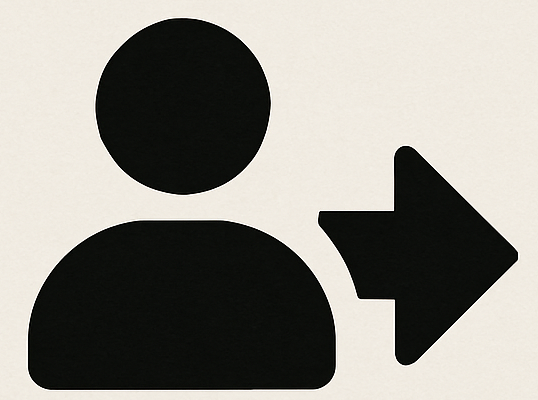
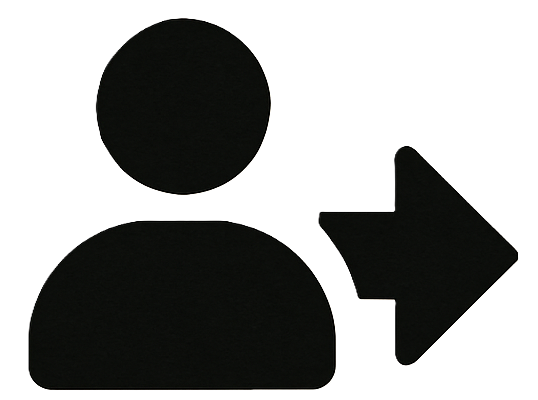
login page styling/fin??

diff --git a/retrOS/src/components/pim/login/login.css b/retrOS/src/components/pim/login/login.css
@@ -2,26 +2,25 @@
     display: flex;
     flex-direction: column;
     align-items: center;
-    border: 1px solid black;
     height: 100%;
 }
 #pim-login-image {
     margin-top: 20px;
     width: 90%;
+    max-width: 360px;
 }
 #line-border {
     margin-top: 12px;
-    height: 15px;
+    min-height: 5px;
+    height: 5px;
+    border-radius: 2px;
     width: 87%;
     box-shadow: inset 2px 2px 1px #2c2c2c, 2px 2px 1px whitesmoke;
 }
 #user-info-form {
-    border: 1px solid black;
     height: 100%;
     margin: 10px auto;
     width: 80%;
-}
-#user-info-form {
     display: flex;
     flex-direction: column;
     align-items: center;
@@ -48,17 +47,12 @@ input {
     height: 22px;
     width: 60%;
 }
-
 #register-login-button-parent {
+    height: 70px;
     width: 95%;
     display: flex;
     justify-content: space-between;
     margin: auto 1px 20px 1px;
-}
-#submit-form-button > image {
-    height: 203px;
-    width: 203px;
-    border: 2px solid black;
 }
 #toggle-register-button, #submit-form-button {
     display:flex;
@@ -70,6 +64,14 @@ input {
     text-shadow: 1px -1px 1px white ;
 }
 #toggle-register-button > img, #submit-form-button > img {
-    height: 40px;
-    width: 40px;
+    height: 100%;
+    width: 100%;
+}
+#toggle-register-button {
+    text-indent: -22px;
+    margin-left: 2px;
+}
+#toggle-register-button, #submit-form-button {
+    /* border: 1px solid black; */
+    height: 90%;
 }

diff --git a/retrOS/src/components/pim/pim.jsx b/retrOS/src/components/pim/pim.jsx
@@ -9,6 +9,8 @@ function Pim({ setPimComponent, setNavPimButton, pimPosition, setPimPosition, pi
     const [ offSet, setOffSet ] = useState({x: 0, y: 0 });
     const topBar = useRef(null);
     const [ pimComponentMaximized, setPimComponentMaximized ] = useState(false);
+    // this is just to true if the window is over a certain amount of pixels otherwise it is false for styling purposes 
+    const [ isWindowWide, setIsWindowWide ] = useState(false);
     
 
     const mouseStart = e => {
@@ -35,11 +37,14 @@ function Pim({ setPimComponent, setNavPimButton, pimPosition, setPimPosition, pi
         setMove(false)
     };
 
+    
+
     const divStyle = {
         left: pimComponentMaximized ? 0 : pimPosition.x ,
         top: pimComponentMaximized ? 0 : pimPosition.y,
         width: pimComponentMaximized ? '100%' : '35vw',
         minWidth: '350px',
+        minHeight: '550px',
         height: pimComponentMaximized ? 'calc(100% - 40px)' : '50vw',
         zIndex: pimZIndex,
     }

diff --git a/retrOS/src/components/pim/login/login.jsx b/retrOS/src/components/pim/login/login.jsx
@@ -1,6 +1,8 @@
 import React, { useState } from 'react';
 import PimImage from '../../../assets/pim-image.png';
 import TextBubbleIcon from '../../../assets/text-bubble-icon.png';
+import RegisterIcon from '../../../assets/register-icon.png';
+import LoginIcon from '../../../assets/login-icon.png';
 import './login.css';
 
 function login({ updateLocalStorage }) {
@@ -133,6 +135,7 @@ function login({ updateLocalStorage }) {
                     {isRegister 
                     ? ( null )
                     : ( null )}
+                    <img src={ isRegister ? RegisterIcon : LoginIcon}/>
                     {isRegister ? 'Login' : 'Sign Up'}
                 </button>
 

diff --git a/retrOS/src/components/pim/pim.css b/retrOS/src/components/pim/pim.css
@@ -15,6 +15,7 @@
     align-items: center;
     overflow: auto;
     resize: both;
+    overflow-y: hidden;
 }
 #pim-parent {
     background-color: #c0c0c0;
@@ -30,6 +31,7 @@
     background-color: #000080;
     width: 99.7%;
     margin-top: 1px;
+    min-height: 30px;
     height: 30px;
     display: flex;
     justify-content: space-between;
@@ -54,7 +56,7 @@
 #top-bar-button-parent {
     display: flex;
     width: fit-content;
-    margin-right: 21.5px;
+    margin-right: 2px;
 }
 .top-bar-button {
     background-color: gray;

diff --git a/retrOS/src/components/pim/pimDashboard/pimDashboard.css b/retrOS/src/components/pim/pimDashboard/pimDashboard.css
@@ -3,5 +3,4 @@
 }
 * {
     font-family: Arial, Helvetica, sans-serif;
-    font-size: 22px;
 }
